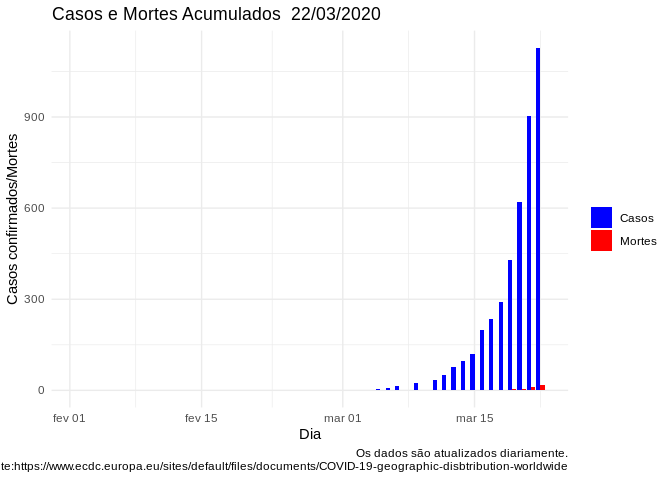
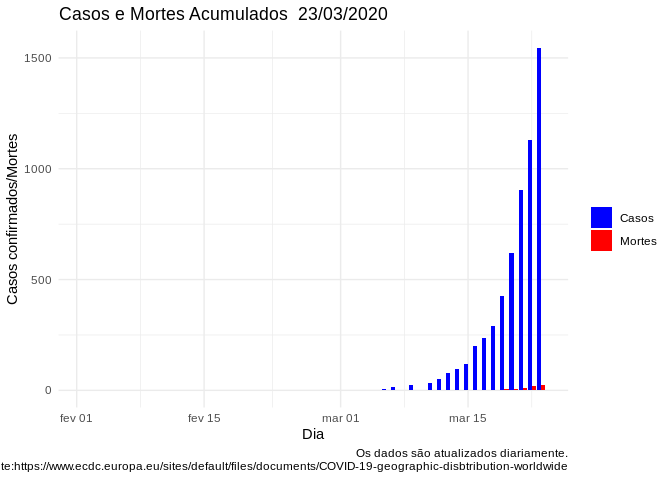
Adicionado estatisticas

diff --git a/README.md b/README.md
@@ -1,9 +1,6 @@
 Acompanhamento Covid 19
 ================
 
-Acompanhamento
---------------
-
 Os dados são obtidos de [Centro Europeu de Controle de Doenças - ECDC](https://www.ecdc.europa.eu/sites/default/files/documents/COVID-19-geographic-disbtribution-worldwide-2020-03-22.xlsx) e atualizado diariamente. Note que o link deve ser atualizado com a data mais recente em caso de download manual.
 
 Outras fontes e projetos brasileiros e internaionais de acompanhamento da epidemia:
@@ -11,6 +8,8 @@ Outras fontes e projetos brasileiros e internaionais de acompanhamento da epidem
 -   <https://labs.wesleycota.com/sarscov2/br/>
 -   <https://covid-simulator.3778.care/>
 -   <https://www.worldometers.info/coronavirus/>
+-   <https://www.covidvisualizer.com/>
+-   <https://github.com/CSSEGISandData/COVID-19/tree/master/csse_covid_19_data>
 
 Dados Gerais
 ------------
@@ -27,7 +26,23 @@ Para o caso brasileiro, o cenário atual é o seguinte:
 
 Para fins de comparação com estimativas internacionais, o gráfico abaixo apresenta a curva de casos confirmados cumulativa a partir do dia 0:
 
+    ## Don't know how to automatically pick scale for object of type difftime. Defaulting to continuous.
+
 ![](README_files/figure-markdown_github/unnamed-chunk-6-1.png)
+
+    ## Don't know how to automatically pick scale for object of type difftime. Defaulting to continuous.
+
+![](README_files/figure-markdown_github/unnamed-chunk-6-2.png)
+
+### Dados Por População
+
+Os gráficos abaixo trazem comparativos utilizando dados relativos ao tamanho da população e número de leitos hospitalares disponíveis por 1000 habitantes. A fonte dos dados é o Banco Mundial:
+
+![](README_files/figure-markdown_github/unnamed-chunk-8-1.png)
+
+Já o gráfico abaixo compara uma estimativa de Casos com necessidade de internação de 20% (segundo estudo do Imperial College) e a capacidade hospitalar de cada país, considerando uma distribuição uniforme dos casos (diferente do atual caso italiano onde há concentração de casos na Lombardia e a taxa de ocupação de leitos nessa região é muito superior à média do país:
+
+![](README_files/figure-markdown_github/unnamed-chunk-9-1.png)
 
 Nota:
 -----
